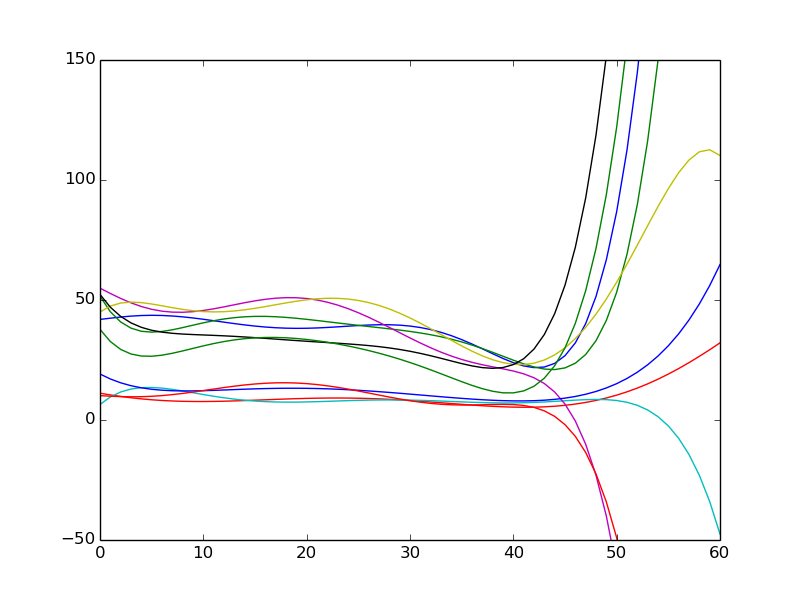
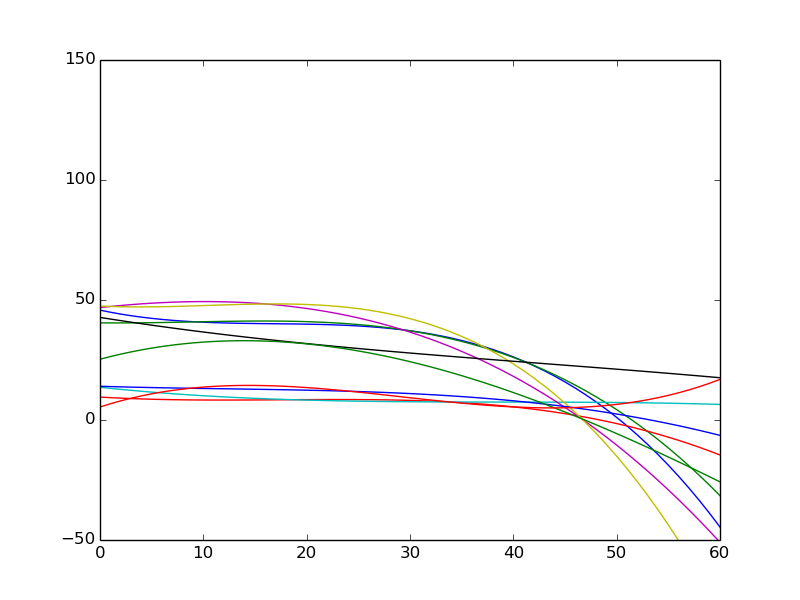
Added SMA to polyfit

diff --git a/get_poly_sma.py b/get_poly_sma.py
@@ -1,7 +1,7 @@
 import numpy as np
 import math
 
-from datetime import date, timedelta
+from datetime import datetime, timedelta
 import couchdb
 
 import matplotlib as mpl
@@ -11,14 +11,20 @@ import matplotlib.pyplot as plt
 
 def getPolyfit(x,y, degree=3):
 	z = np.polyfit(x,y, degree)
-        p = np.poly1d(z)
+    	p = np.poly1d(z)
 
-        yhat = p(x)
-        ybar = np.sum(y)/len(y)
-        ssreg = np.sum((yhat-ybar)**2)
-        sstot = np.sum((y - ybar)**2)
+    	yhat = p(x)
+    	ybar = np.sum(y)/len(y)
+    	ssreg = np.sum((yhat-ybar)**2)
+    	sstot = np.sum((y - ybar)**2)
 
 	return (p, ssreg/sstot)
+
+def moving_average(a, n=3):
+    ret = np.cumsum(a, dtype=float)
+    ret[n:] = ret[n:] - ret[:-n]
+    return ret[n - 1:] / n
+
 
 db_name = "stackoverflow_new"
 
@@ -26,33 +32,45 @@ server = couchdb.Server()
 
 db = server[db_name]
 
-java = []
-
+# Preprocess the data. Put it in a easier format to use
 data = {}
-
 for doc in db:
 	doc_obj = db[doc]
 	for tech in doc_obj['items']:
 		name = tech['name']
 		if name not in data:
 			data[name] = []
-		data[name].append( (doc_obj['date'], tech['count']))
+		date = datetime.strptime(doc_obj['date'], "%Y-%m-%d")
+		data[name].append( (date, tech['count']))
 
 regressions = {}
 R_squared = {}
 count = 0
 numPlots = 10
-degree = 6
+degree = 3
+num_to_avg=3
 for tech in data:
 	d = data[tech]
 	d.sort()
-	y = np.array([x[1] for x in d])
-	x = np.array(range(len(y)))
 	
-	p, r_sq = getPolyfit(x,y,degree)
+	first_day = d[0][0]	
+
+	y = np.array([x[1] for x in d])
+	x = np.array([(x[0]-first_day).days for x in d])
+
+	
+	y_sma = moving_average(y, num_to_avg)
+	x_sma = x[1:-1]
+
+	p, r_sq = getPolyfit(x_sma,y_sma,degree)
 	regressions[tech] = p
-	R_squared[tech] = r_sq
-	# print R_squared[tech]
+
+	yhat = p(x_sma)
+        ybar = np.sum(y[1:-1])/len(y[1:-1])
+        ssreg = np.sum((yhat-ybar)**2)
+        sstot = np.sum((y[1:-1] - ybar)**2)
+
+	R_squared[tech] = ssreg/sstot
 
 	if count < numPlots and sum(p.coeffs) > 0:
 		xp = np.linspace(0, 60,61)
@@ -87,3 +105,4 @@ first_deriv.sort(reverse=True)
 print 'Top 10 Techs by first Deriv:'
 for d, tech in first_deriv[:10]:
 	print '%s: %f' % (tech, d) 
+
